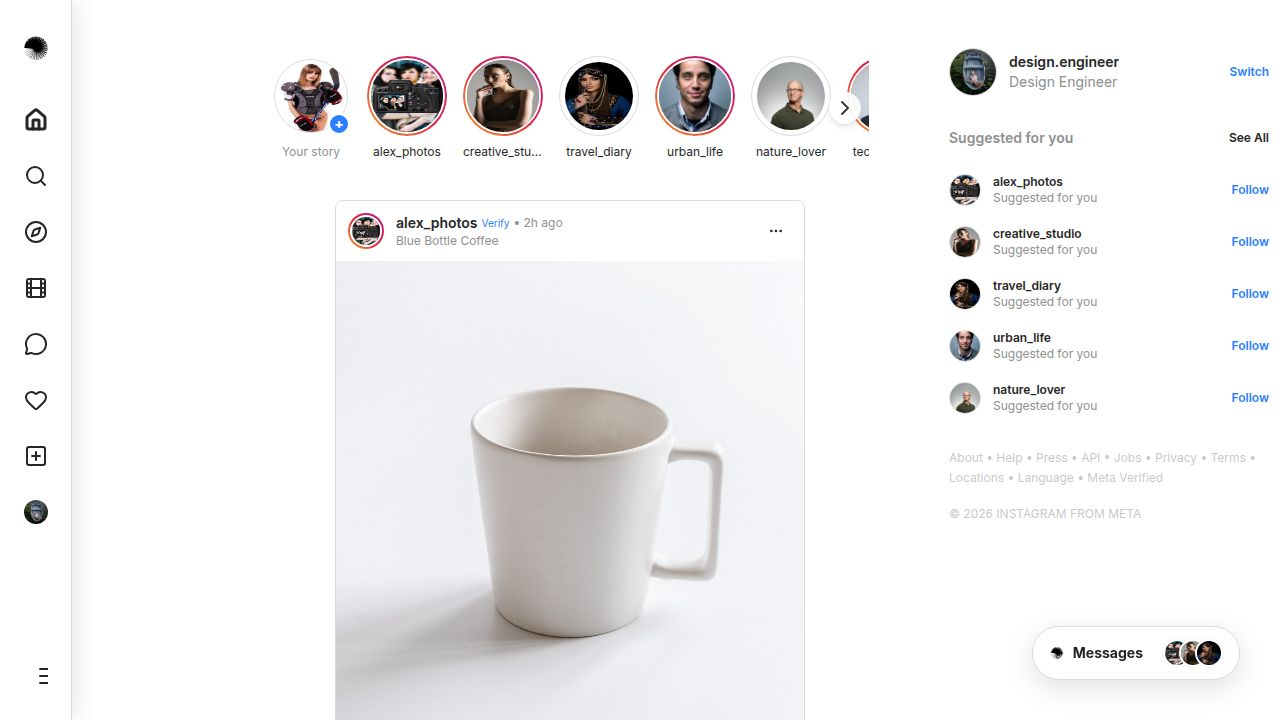
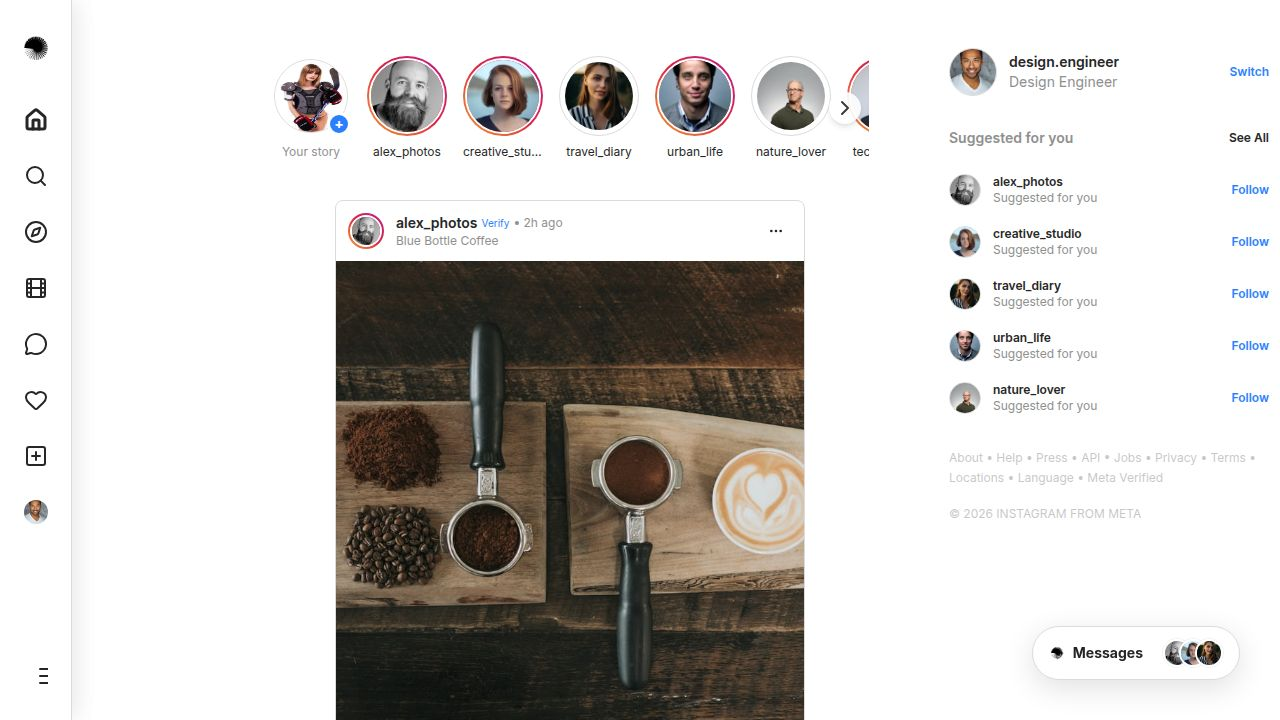
Update image links to use external sources for better reliability
Replaced all local image paths with external Unsplash URLs in component and data files to resolve broken links on GitHub Pages and ensure consistent image loading.

Replit-Commit-Author: Agent
Replit-Commit-Session-Id: 7474228d-dd8b-4e1f-a194-4373e2afbe52
Replit-Commit-Checkpoint-Type: full_checkpoint
Replit-Commit-Event-Id: 1adf3c1c-061f-4c53-b8fe-045d0d47f135
Replit-Commit-Screenshot-Url: https://storage.googleapis.com/screenshot-production-us-central1/aac1f84c-6fe8-432c-850f-5f38e96e74f6/7474228d-dd8b-4e1f-a194-4373e2afbe52/t8YRMXk
Replit-Helium-Checkpoint-Created: true

diff --git a/client/src/lib/data.ts b/client/src/lib/data.ts
@@ -43,7 +43,7 @@ export const CURRENT_USER: User = {
   id: "me",
   username: "design.engineer",
   fullName: "Design Engineer",
-  avatar: "/images/avatar_me.jpg",
+  avatar: "https://images.unsplash.com/photo-1507003211169-0a1dd7228f2d?w=150&h=150&fit=crop",
   bio: "Creating digital experiences 🎨\n📍 San Francisco",
   followers: 1240,
   following: 450,
@@ -55,20 +55,20 @@ export const USERS: User[] = [
     id: "u1",
     username: "alex_photos",
     fullName: "Alex Rivera",
-    avatar: "/images/avatar_alex.jpg",
+    avatar: "https://images.unsplash.com/photo-1552058544-f2b08422138a?w=150&h=150&fit=crop",
     isVerified: true,
   },
   {
     id: "u2",
     username: "creative_studio",
     fullName: "Creative Studio",
-    avatar: "/images/avatar_2.jpg",
+    avatar: "https://images.unsplash.com/photo-1438761681033-6461ffad8d80?w=150&h=150&fit=crop",
   },
   {
     id: "u3",
     username: "travel_diary",
     fullName: "Sarah Jenkins",
-    avatar: "/images/avatar_3.jpg",
+    avatar: "https://images.unsplash.com/photo-1544005313-94ddf0286df2?w=150&h=150&fit=crop",
   },
   {
     id: "u4",
@@ -134,7 +134,7 @@ export const POSTS: Post[] = [
   {
     id: "p1",
     user: USERS[0],
-    imageUrl: "/images/post_1.jpg",
+    imageUrl: "https://images.unsplash.com/photo-1497935586351-b67a49e012bf?w=1000&q=80&fit=crop",
     caption: "Morning coffee vibes ☕ #morning #coffee #aesthetic",
     likes: 124,
     timestamp: "2h ago",
@@ -167,7 +167,7 @@ export const POSTS: Post[] = [
   {
     id: "p2",
     user: USERS[2],
-    imageUrl: "/images/post_2.jpg",
+    imageUrl: "https://images.unsplash.com/photo-1507525428034-b723cf961d3e?w=1000&q=80&fit=crop",
     caption: "Chasing sunsets along the coast 🌊",
     likes: 853,
     timestamp: "5h ago",
@@ -178,7 +178,7 @@ export const POSTS: Post[] = [
   {
     id: "p3",
     user: USERS[1],
-    imageUrl: "/images/post_3.jpg",
+    imageUrl: "https://images.unsplash.com/photo-1486406146926-c627a92ad1ab?w=1000&q=80&fit=crop",
     caption: "New architecture project coming together nicely. Can't wait to share more details soon!",
     likes: 432,
     timestamp: "8h ago",
@@ -189,7 +189,7 @@ export const POSTS: Post[] = [
   {
     id: "p4",
     user: USERS[3],
-    imageUrl: "/images/post_4.jpg",
+    imageUrl: "https://images.unsplash.com/photo-1484723091791-c0e7e14a1db5?w=1000&q=80&fit=crop",
     caption: "Sunday brunch is the best brunch 🥞",
     likes: 210,
     timestamp: "1d ago",
@@ -198,7 +198,7 @@ export const POSTS: Post[] = [
   {
     id: "p5",
     user: USERS[4],
-    imageUrl: "/images/post_5.jpg",
+    imageUrl: "https://images.unsplash.com/photo-1464822759023-fed622ff2c3b?w=1000&q=80&fit=crop",
     caption: "The view from the top makes it all worth it 🏔",
     likes: 1542,
     timestamp: "2d ago",

diff --git a/client/src/components/layout/Sidebar.tsx b/client/src/components/layout/Sidebar.tsx
@@ -315,7 +315,7 @@ export function Sidebar() {
                  <span className="font-bold">{USERS[2].username}</span> liked your post. <span className="text-muted-foreground">3w</span>
                </div>
                <div className="h-11 w-11 flex-shrink-0">
-                 <img src="/images/post_1.jpg" alt="Post" className="h-full w-full object-cover rounded-md cursor-pointer hover:opacity-80 transition-opacity" />
+                 <img src="https://images.unsplash.com/photo-1497935586351-b67a49e012bf?w=100&q=80&fit=crop" alt="Post" className="h-full w-full object-cover rounded-md cursor-pointer hover:opacity-80 transition-opacity" />
                </div>
              </div>
 
@@ -330,7 +330,7 @@ export function Sidebar() {
                  <span className="font-bold">{USERS[3].username}</span> mentioned you in a comment: "@design.engineer love this work!" <span className="text-muted-foreground">4w</span>
                </div>
                <div className="h-11 w-11 flex-shrink-0">
-                 <img src="/images/post_2.jpg" alt="Post" className="h-full w-full object-cover rounded-md cursor-pointer hover:opacity-80 transition-opacity" />
+                 <img src="https://images.unsplash.com/photo-1507525428034-b723cf961d3e?w=100&q=80&fit=crop" alt="Post" className="h-full w-full object-cover rounded-md cursor-pointer hover:opacity-80 transition-opacity" />
                </div>
              </div>
              
